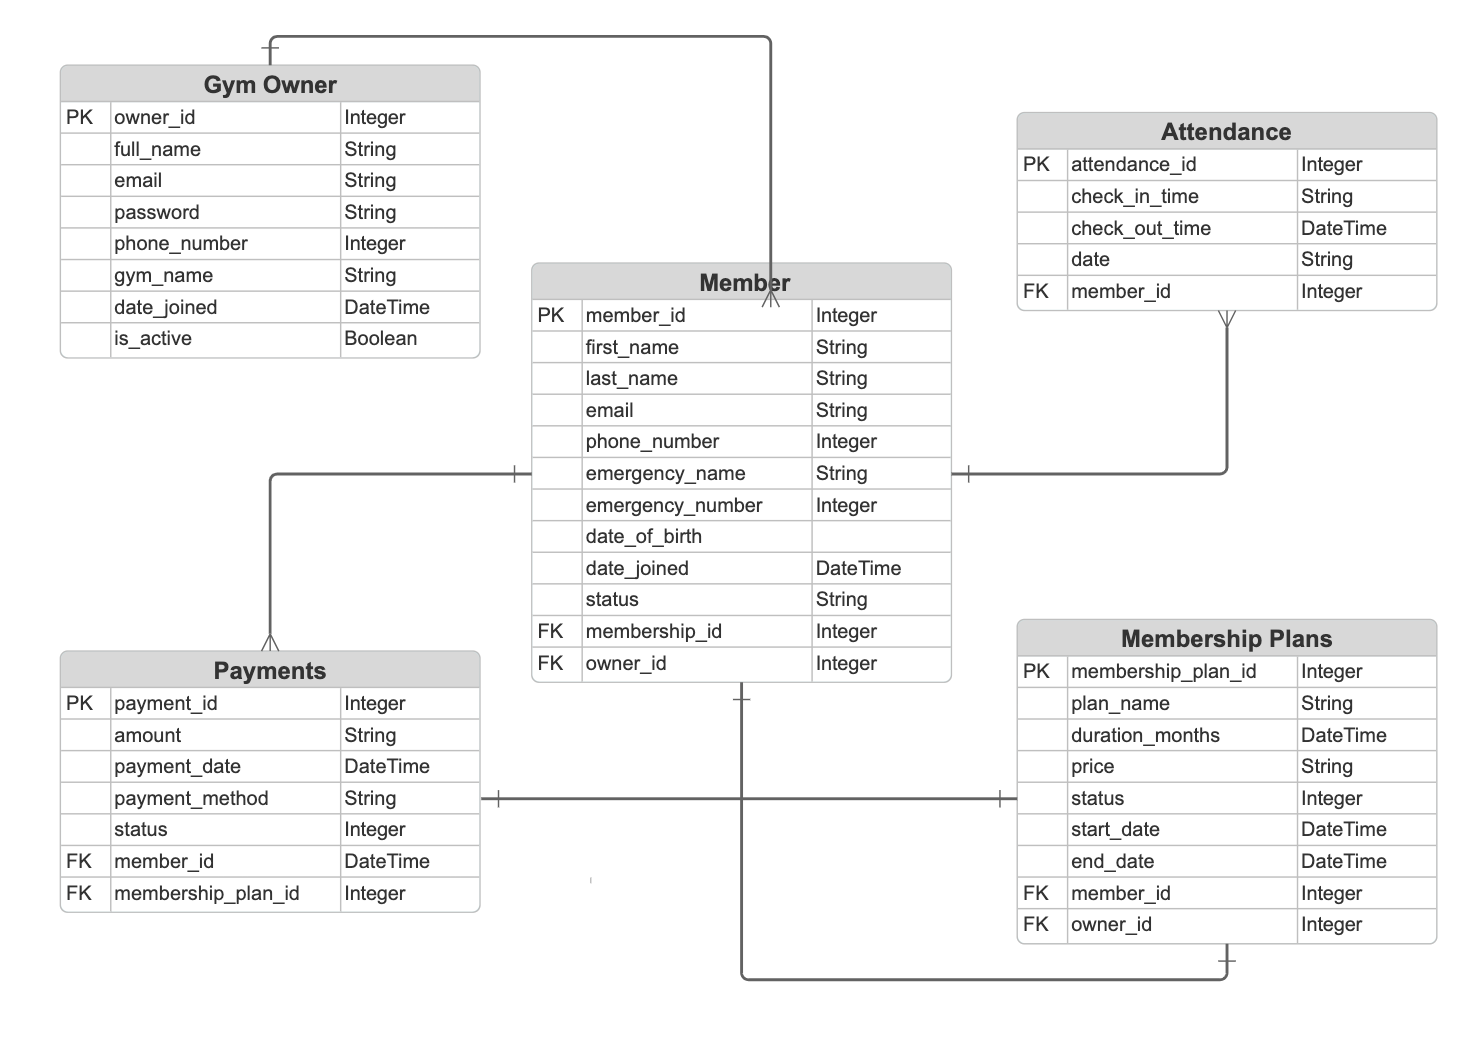
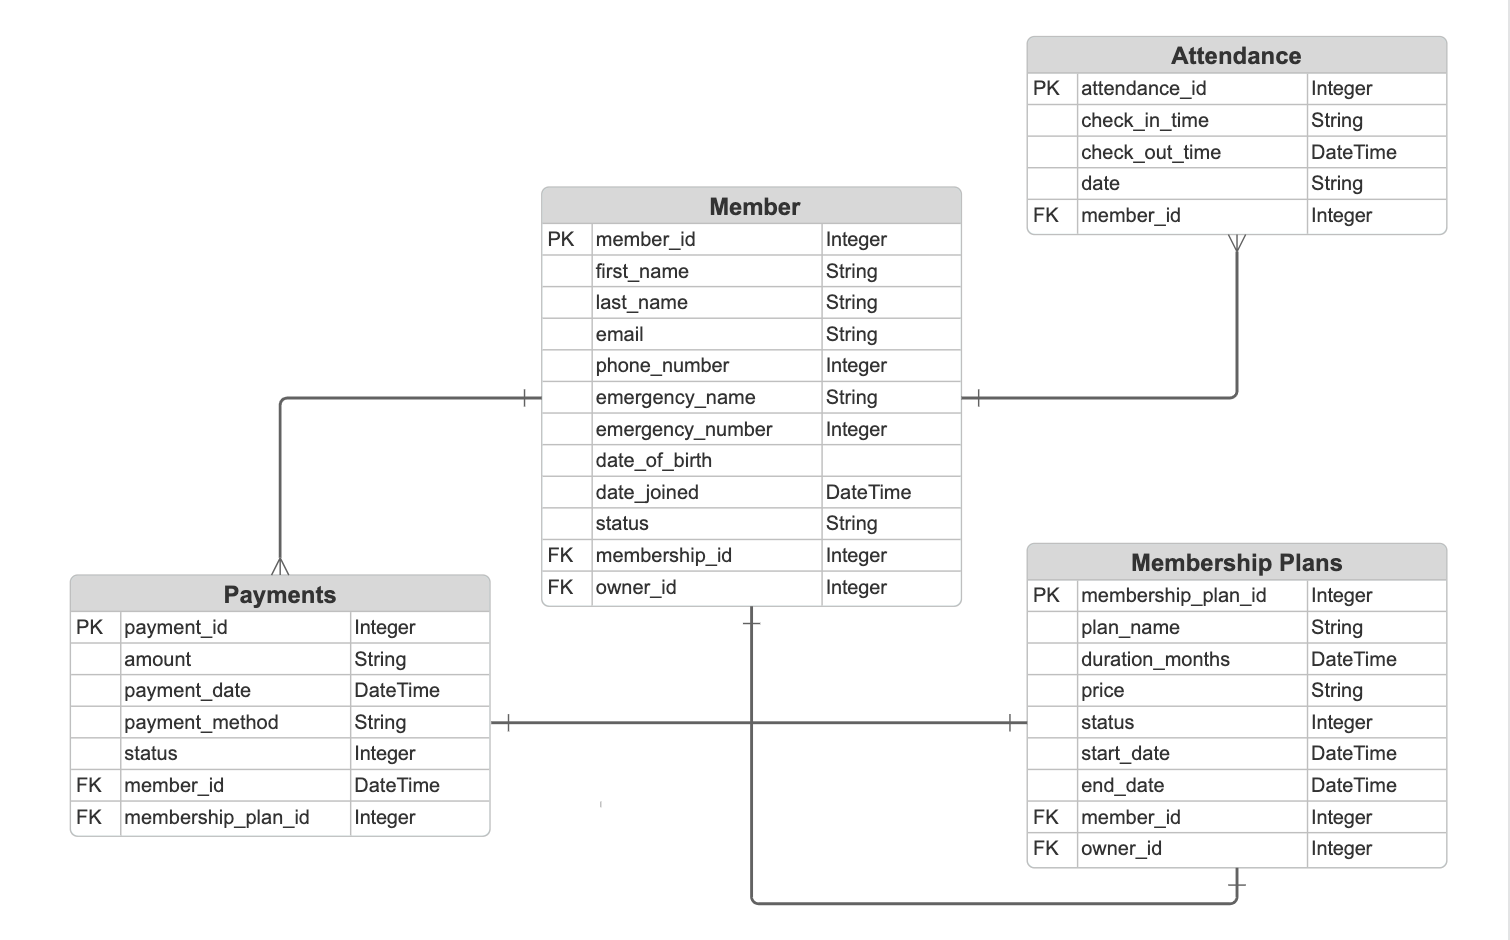
edit erd in assets and add database schema to readme

Changed region(s): [[0.031, 0.0, 1.0, 1.0], [0.031, 0.0309, 0.5277, 0.3394], [0.4966, 0.9564, 0.807, 0.9872]]

diff --git a/README.md b/README.md
@@ -4,6 +4,7 @@
 This application is intended to be used by owners and staff of gyms in order to keep up to date with their members and their memberships to those gyms as well as storing key contact information needed for communication or emergencies.
 
 This is a gym management platform designed to provide a reliable backend architecture for handling essential gym operations such as membership tracking, payment records, and attendance logging. The focus of this project is on functionality, maintainability, and data structure, creating a scalable foundation that can be expanded with additional features in the future.
+
 ---
 
 ## Features
@@ -20,6 +21,32 @@ This is a gym management platform designed to provide a reliable backend archite
 - 🔄 Attendance logging with check-in system
 - 🔄 Reports and analytics dashboard
 - 🔄 Inventory management for supplements
+
+---
+## Database Schema
+
+The application uses PostgreSQL with the following models:
+
+### Gym Model
+- `name`: Gym name
+- `address`: Physical location
+- `owner`: ForeignKey to User (one gym per owner)
+
+### Member Model  
+- `first_name`, `last_name`: Member's name
+- `email`, `phone_number`: Contact details
+- `date_of_birth`: Date of birth
+- `emergency_contact`: Emergency contact info
+- `membership_plan`: ForeignKey to MembershipPlan (optional)
+- `status`: Active/Inactive/Suspended/Frozen
+- `date_joined`: Auto-generated timestamp
+
+### MembershipPlan Model
+- `plan_name`: Name of the plan (e.g., "Premium Monthly")
+- `duration_months`: Duration in months
+- `price`: Monthly/annual price
+- `status`: Active/Inactive
+- `gym`: ForeignKey to Gym
 
 
 ## UX Design
